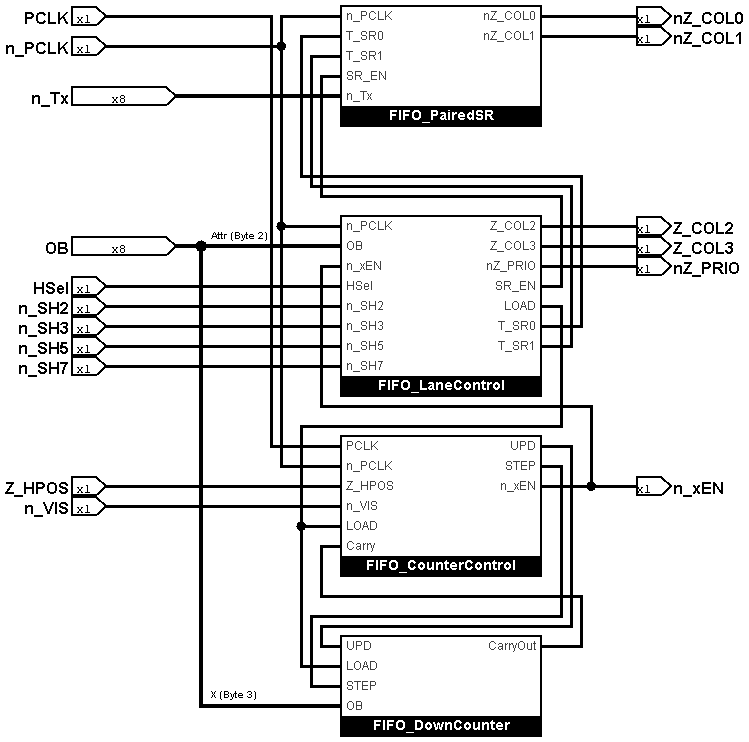
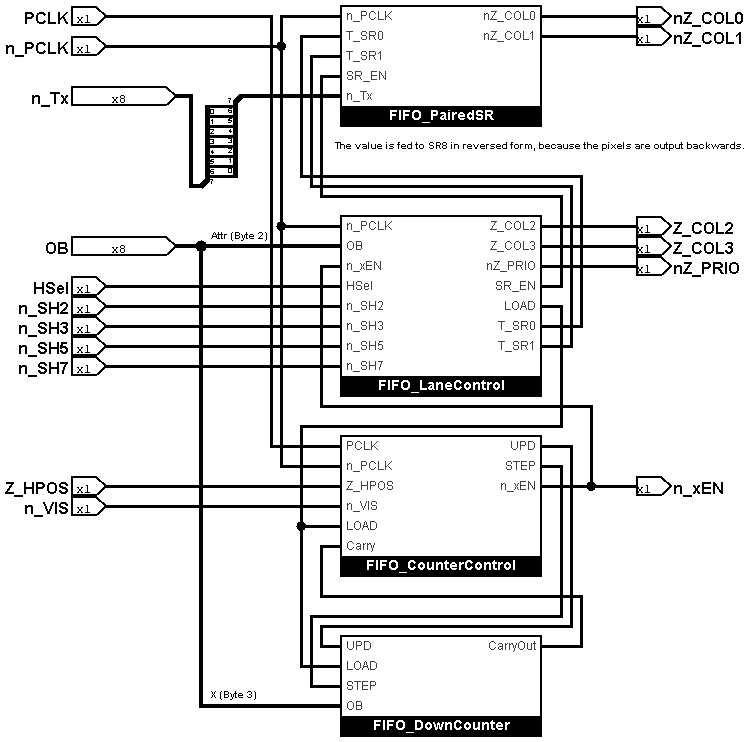
The value is fed to SR8 in reversed form, because the pixels are output backwards.

diff --git a/BreakingNESWiki/PPU/fifo.md b/BreakingNESWiki/PPU/fifo.md
@@ -77,6 +77,8 @@ FIFO состоит из 8 "лейнов". Каждый лейн состоит 
 
 (открывайте картинку в новой вкладке для полного просмотра)
 
+:warning: Значение подается на SR8 в реверснутом виде, т.к. пиксели выводятся задом наперёд.
+
 ## Схема приоритета спрайтов
 
 Схема приоритета находится в "размазанном" виде. Ниже представлены отдельные куски этой схемы.

diff --git a/BreakingNESWiki/PPU/bgcol.md b/BreakingNESWiki/PPU/bgcol.md
@@ -23,11 +23,15 @@
 
 ![BGC_0](/BreakingNESWiki/imgstore/ppu/BGC_0.png)
 
+:warning: Значение подается на SR8 в реверснутом виде, т.к. пиксели выводятся задом наперёд.
+
 ## Получение BGC1
 
 ![ppu_dataread_bgc1](/BreakingNESWiki/imgstore/ppu/ppu_dataread_bgc1.jpg)
 
 ![BGC_1](/BreakingNESWiki/imgstore/ppu/BGC_1.png)
+
+:warning: Значение подается на SR8 в реверснутом виде, т.к. пиксели выводятся задом наперёд.
 
 ## Получение BGC2
 

diff --git a/BreakingNESWiki_DeepL/PPU/bgcol.md b/BreakingNESWiki_DeepL/PPU/bgcol.md
@@ -23,11 +23,15 @@
 
 ![BGC_0](/BreakingNESWiki/imgstore/ppu/BGC_0.png)
 
+:warning: The value is fed to SR8 in reversed form, because the pixels are output backwards.
+
 ## Obtaining BGC1
 
 ![ppu_dataread_bgc1](/BreakingNESWiki/imgstore/ppu/ppu_dataread_bgc1.jpg)
 
 ![BGC_1](/BreakingNESWiki/imgstore/ppu/BGC_1.png)
+
+:warning: The value is fed to SR8 in reversed form, because the pixels are output backwards.
 
 ## Obtaining BGC2
 

diff --git a/BreakingNESWiki_DeepL/PPU/fifo.md b/BreakingNESWiki_DeepL/PPU/fifo.md
@@ -77,6 +77,8 @@ The circuit shown is for sprite #0. For all others (1-7) you must replace the si
 
 (open the picture in a new tab for a full view)
 
+:warning: The value is fed to SR8 in reversed form, because the pixels are output backwards.
+
 ## Sprite Priority
 
 The priority circuit is in "sparse" layout. The individual pieces of this circuit are shown below.
